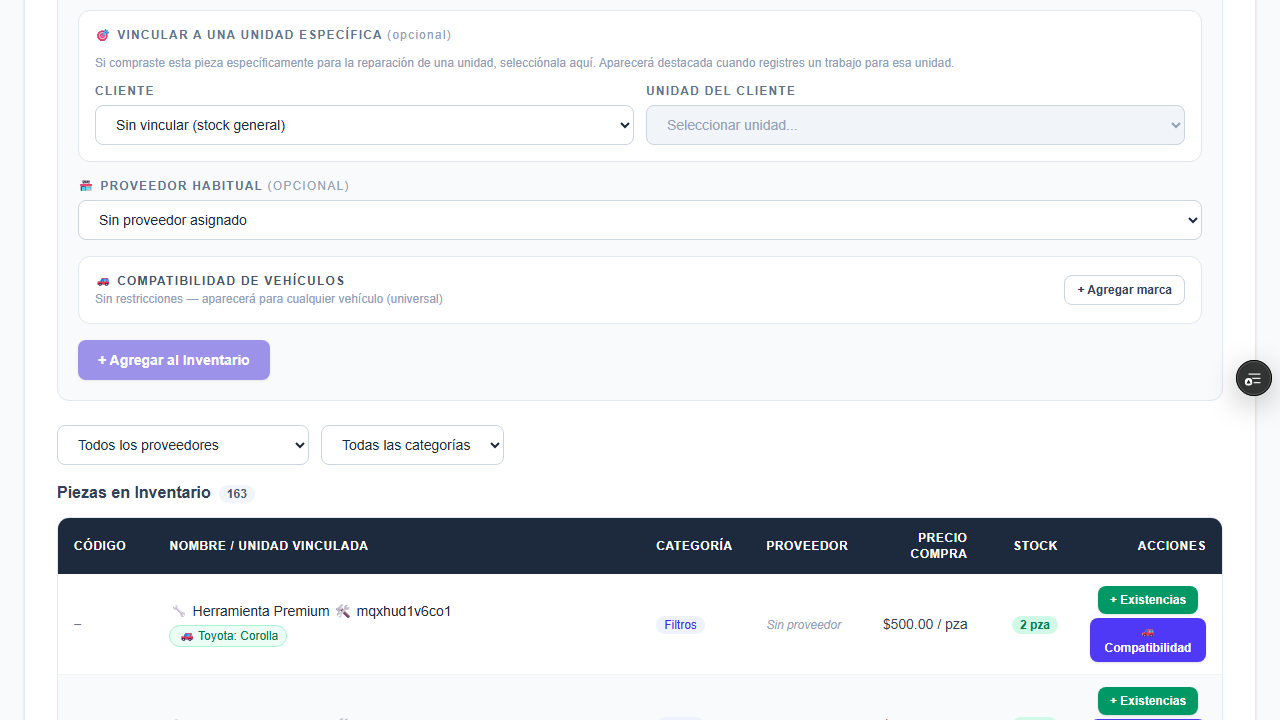
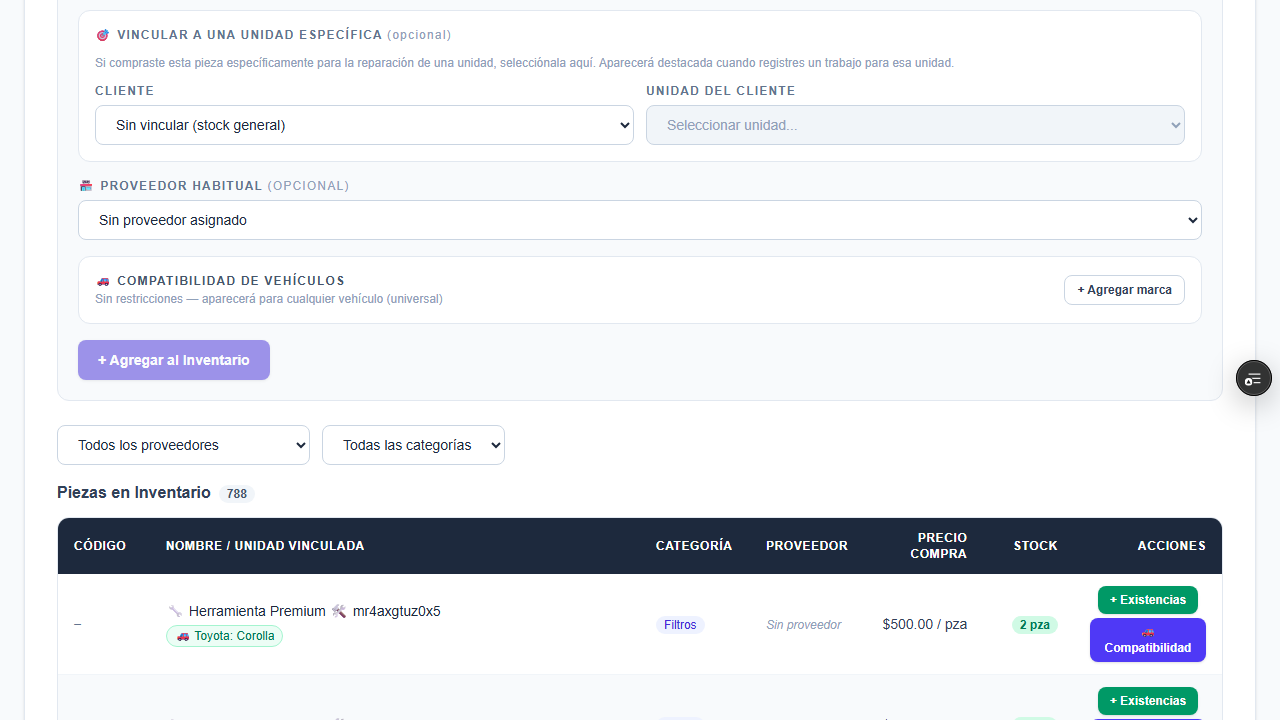
fix(e2e): use .first() in DashboardPage.logout() — fix strict mode violation from dual email inputs

diff --git a/e2e/pages/DashboardPage.ts b/e2e/pages/DashboardPage.ts
@@ -102,8 +102,9 @@ export class DashboardPage extends BasePage {
   /** Logout the current user. */
   async logout() {
     await this.logoutButton.click();
-    // Wait for redirect to login page
-    await this.page.locator('input[type="email"]').waitFor({ state: 'visible', timeout: 20_000 });
+    // Wait for redirect to login page — use .first() to handle pages that may
+    // have multiple email inputs (e.g. PR #110 feedback form adds a second one)
+    await this.page.locator('input[type="email"]').first().waitFor({ state: 'visible', timeout: 20_000 });
   }
 
   /** Get the currently displayed user email. */

diff --git a/e2e/tests/scenarios/change-proof-numero-orden-kilometraje.spec.ts b/e2e/tests/scenarios/change-proof-numero-orden-kilometraje.spec.ts
@@ -55,7 +55,7 @@ test('change-proof-numero-orden-kilometraje', async ({ page, loginPage, dashboar
   await numeroOrdenInput.fill(numeroOrdenValue);
 
   await showPhaseLabel(page, '🛣️ Llenando kilometraje');
-  const kilometrajeInput = page.getByLabel(/Kilometraje/i).first();
+  const kilometrajeInput = page.getByPlaceholder('Ej. 85000').first();
   await expect(kilometrajeInput).toBeVisible({ timeout: 10_000 });
   await kilometrajeInput.fill(kilometrajeValue);
 
@@ -95,7 +95,7 @@ test('change-proof-numero-orden-kilometraje', async ({ page, loginPage, dashboar
     .getByLabel(/Número de Orden/i)
     .or(page.getByPlaceholder(/numero.*orden|OT-/i))
     .first();
-  const persistedKilometrajeInput = page.getByLabel(/Kilometraje/i).first();
+  const persistedKilometrajeInput = page.getByPlaceholder('Ej. 85000').first();
   await expect(persistedNumeroOrdenInput).toHaveValue(numeroOrdenValue);
   await expect(persistedKilometrajeInput).toHaveValue(kilometrajeValue);
 